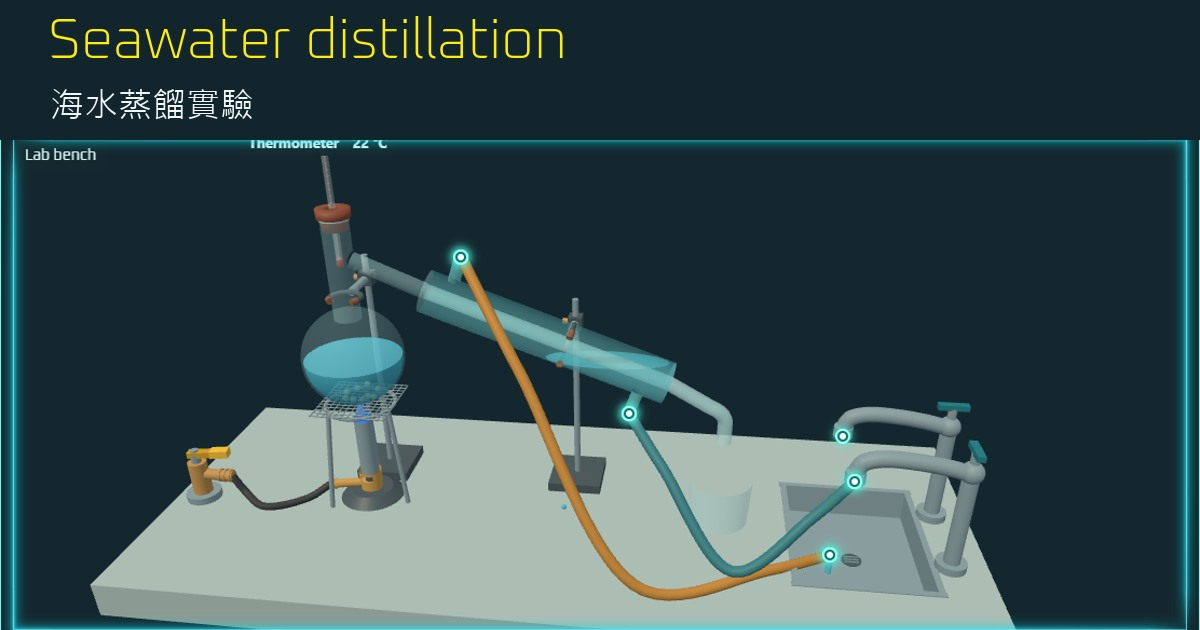
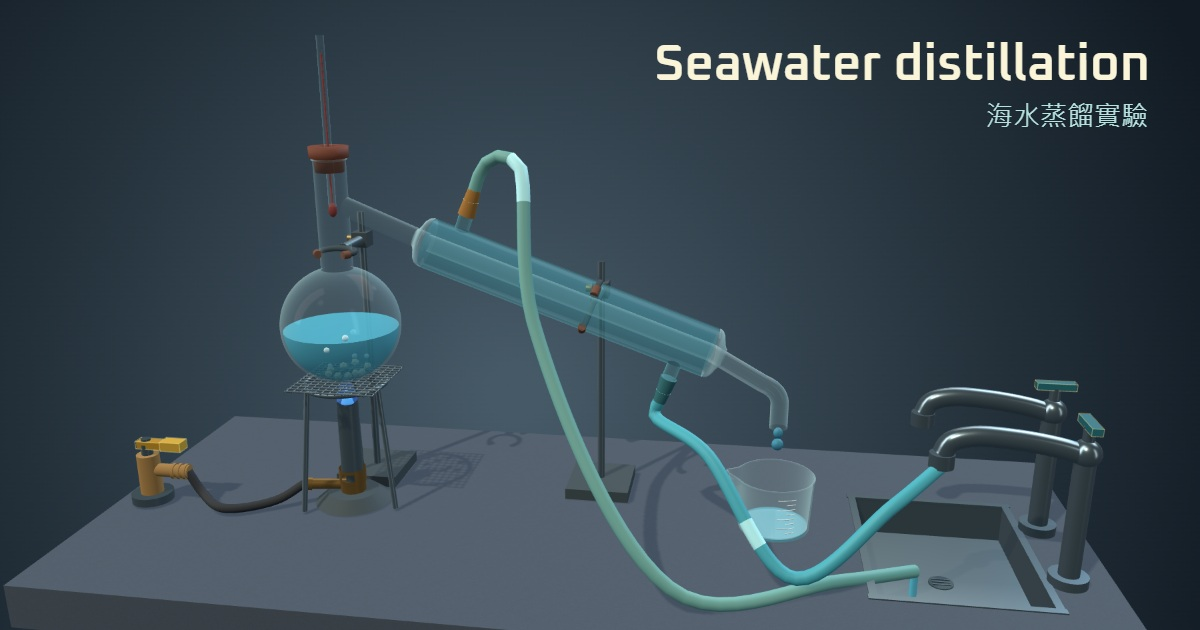
Refresh the seawater distillation share image from the running experiment

diff --git a/seawater-distillation.html b/seawater-distillation.html
@@ -1,4 +1,4 @@
-<!doctype html><html lang="zh-HK"><head><meta charset="utf-8"><meta name="viewport" content="width=device-width,initial-scale=1"><meta property="og:title" content="Seawater distillation · 海水蒸餾實驗"><meta property="og:description" content="Connect the cooling hoses and distil seawater in a 3D laboratory. 接駁冷凝管水喉，喺 3D 實驗室蒸餾海水。"><meta property="og:image" content="https://ydss-lku.github.io/physim/assets/share/seawater-distillation.jpg"><meta property="og:type" content="website"><meta name="twitter:card" content="summary_large_image"><title data-en="Seawater distillation" data-zh="海水蒸餾實驗">Seawater distillation</title><script src="assets/night-theme.js"></script><script src="assets/language-copy.js"></script><script src="assets/language.js"></script><link rel="stylesheet" href="cyberpunk-assets/augmented-ui.min.css"><style>
+<!doctype html><html lang="zh-HK"><head><meta charset="utf-8"><meta name="viewport" content="width=device-width,initial-scale=1"><meta property="og:title" content="Seawater distillation · 海水蒸餾實驗"><meta property="og:description" content="Connect the cooling hoses and distil seawater in a 3D laboratory. 接駁冷凝管水喉，喺 3D 實驗室蒸餾海水。"><meta property="og:image" content="https://ydss-lku.github.io/physim/assets/share/seawater-distillation.jpg?v=studio"><meta property="og:type" content="website"><meta name="twitter:card" content="summary_large_image"><title data-en="Seawater distillation" data-zh="海水蒸餾實驗">Seawater distillation</title><script src="assets/night-theme.js"></script><script src="assets/language-copy.js"></script><script src="assets/language.js"></script><link rel="stylesheet" href="cyberpunk-assets/augmented-ui.min.css"><style>
 *{box-sizing:border-box}body{margin:0;font:16px/1.5 system-ui,sans-serif;color:#193c42;background:#edf4f3}header,main{max-width:1440px;margin:auto;padding:16px 3vw}header{display:flex;align-items:center;justify-content:space-between}h1{font-size:clamp(23px,3vw,40px);margin:0}small{color:#57767a}main{display:grid;grid-template-columns:minmax(0,1fr) 300px;gap:18px;padding-top:0}#view{position:relative;height:clamp(410px,72vh,780px);overflow:hidden;border-radius:18px;background:#cfdddd}canvas{width:100%;height:100%;display:block;touch-action:none}#lens{pointer-events:none;position:absolute;inset:0;box-shadow:inset 0 0 45px 12px #171032;border-radius:18px}#scale{position:absolute;bottom:16px;left:16px;color:white;background:#191631;padding:6px 12px;border-radius:8px}i{display:inline-block;width:92px;height:9px;background:linear-gradient(90deg,#21114c,#7751c6,#ec5682,#ffac43,#fff3a7)}aside{background:white;border-radius:16px;padding:18px}button,select{font:inherit;color:inherit;background:white;border:1px solid #9ab5b6;border-radius:8px;padding:9px;min-height:44px;cursor:pointer}button[aria-pressed=true]{background:#155f64;color:white}label{display:flex;align-items:center;justify-content:space-between;margin:6px 0}h2{font-size:18px;margin:0 0 8px}hr{border:0;border-top:1px solid #dae4e4;margin:16px 0}.controls{display:flex;gap:6px;flex-wrap:wrap}#warn{padding:10px;color:#753b09;background:#fff2ce;border-radius:8px;margin-top:12px}#tag{position:absolute;top:12px;left:12px;background:#fffE;padding:5px 10px;border-radius:6px;font-size:14px}button:focus-visible,select:focus-visible{outline:3px solid #eb9b21}@media(max-width:800px){main{grid-template-columns:1fr}#view{height:48vh;min-height:320px}aside{padding:14px}}
 #markers,#leaders{position:absolute;inset:0;width:100%;height:100%;pointer-events:none}#leaders line{stroke:#34545d;stroke-width:1.5}.pin{position:absolute;pointer-events:auto;transform:translate(-50%,-50%);width:44px;height:44px;padding:0;border:0;background:transparent;font:bold 14px system-ui;color:white;isolation:isolate}.pin:before{content:"";position:absolute;inset:9px 3px;background:#16646a;border:1px solid white;border-radius:6px;z-index:-1}.pin.b:before{background:#885921}.pin.port:before{background:#314958}#connectHint{font-size:14px}#tag,#scale{pointer-events:none}.unlabelled .pin{color:transparent}.unlabelled .pin:before{inset:16px;border-radius:50%}.unlabelled #leaders{opacity:.45}.socket-dot{position:absolute;transform:translate(-50%,-50%);width:20px;height:20px;cursor:pointer;pointer-events:auto}.socket-dot:after{content:"";position:absolute;inset:5px;border-radius:50%;background:#ffffee;border:2px solid #007974;box-shadow:0 0 0 2px #a4fff4,0 0 9px 3px #4bf3db}.pin{z-index:3}.unlabelled .pin,.unlabelled #leaders{visibility:hidden}.unlabelled .pin:focus-visible{visibility:visible}#ends fieldset{margin:8px 0;border:0;border-left:4px solid #387c83;background:#eff6f5;padding:5px 8px 8px;border-radius:6px}#ends fieldset+fieldset{border-color:#a87436;background:#f8f3eb}#ends legend{font-weight:650;font-size:14px}#ends button{width:48%;margin-right:2%;vertical-align:top;text-align:left;padding:5px 8px}#ends small{display:block;font-size:12px;color:inherit}#targets:not([hidden]){display:grid;grid-template-columns:repeat(2,1fr);gap:4px;margin-top:10px}#targets button{font-size:13px;padding:4px}#targets button:nth-child(3),#targets button:nth-child(4){background:#edf6f7}#teacher{display:flex;align-items:center;gap:12px;background:#dfece8;border-radius:16px 16px 0 0;padding:5px 14px}#teacher svg{flex:none}
 #teacher .stern-face,#teacher:has(#warn:not([hidden])) .smiling-face{display:none}
